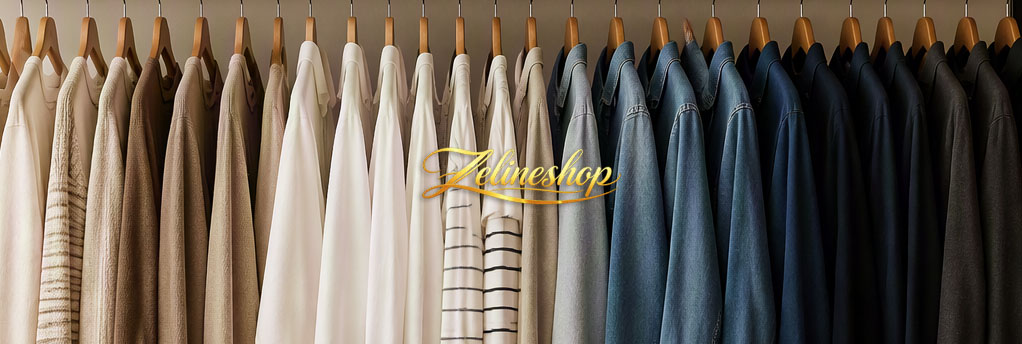
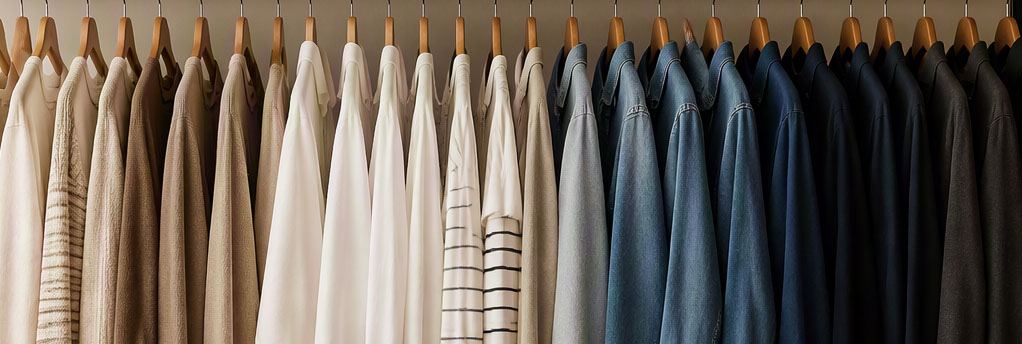
update

Changed region(s): [[0.3943, 0.407, 0.6067, 0.6105]]

diff --git a/css/style.css b/css/style.css
@@ -27,9 +27,9 @@ body {
   display: flex;
   justify-content: space-between;
   align-items: center;
-  padding: 1.4rem 7%;
+  padding: 1.2rem 7%;
   background-color: rgba(1, 1, 1, 0.8);
-  border-bottom: 1px solid #513c28;
+  border-bottom: 1px solid #faf7f4;
   position: fixed;
   top: 0;
   left: 0;
@@ -211,6 +211,7 @@ body {
   color: #fff;
   text-shadow: 1px 1px 3px rgba(1, 1, 3, 0.5);
   line-height: 1.2;
+  margin-top: 250px;
 }
 
 .hero .content h1 span {

diff --git a/index.html b/index.html
@@ -141,7 +141,7 @@
     </div>
     <!-- Shopping Cart end -->
 
-  </nav>
+    </nav>
   <!-- Navbar end -->
 
   <!-- Hero Section start -->
